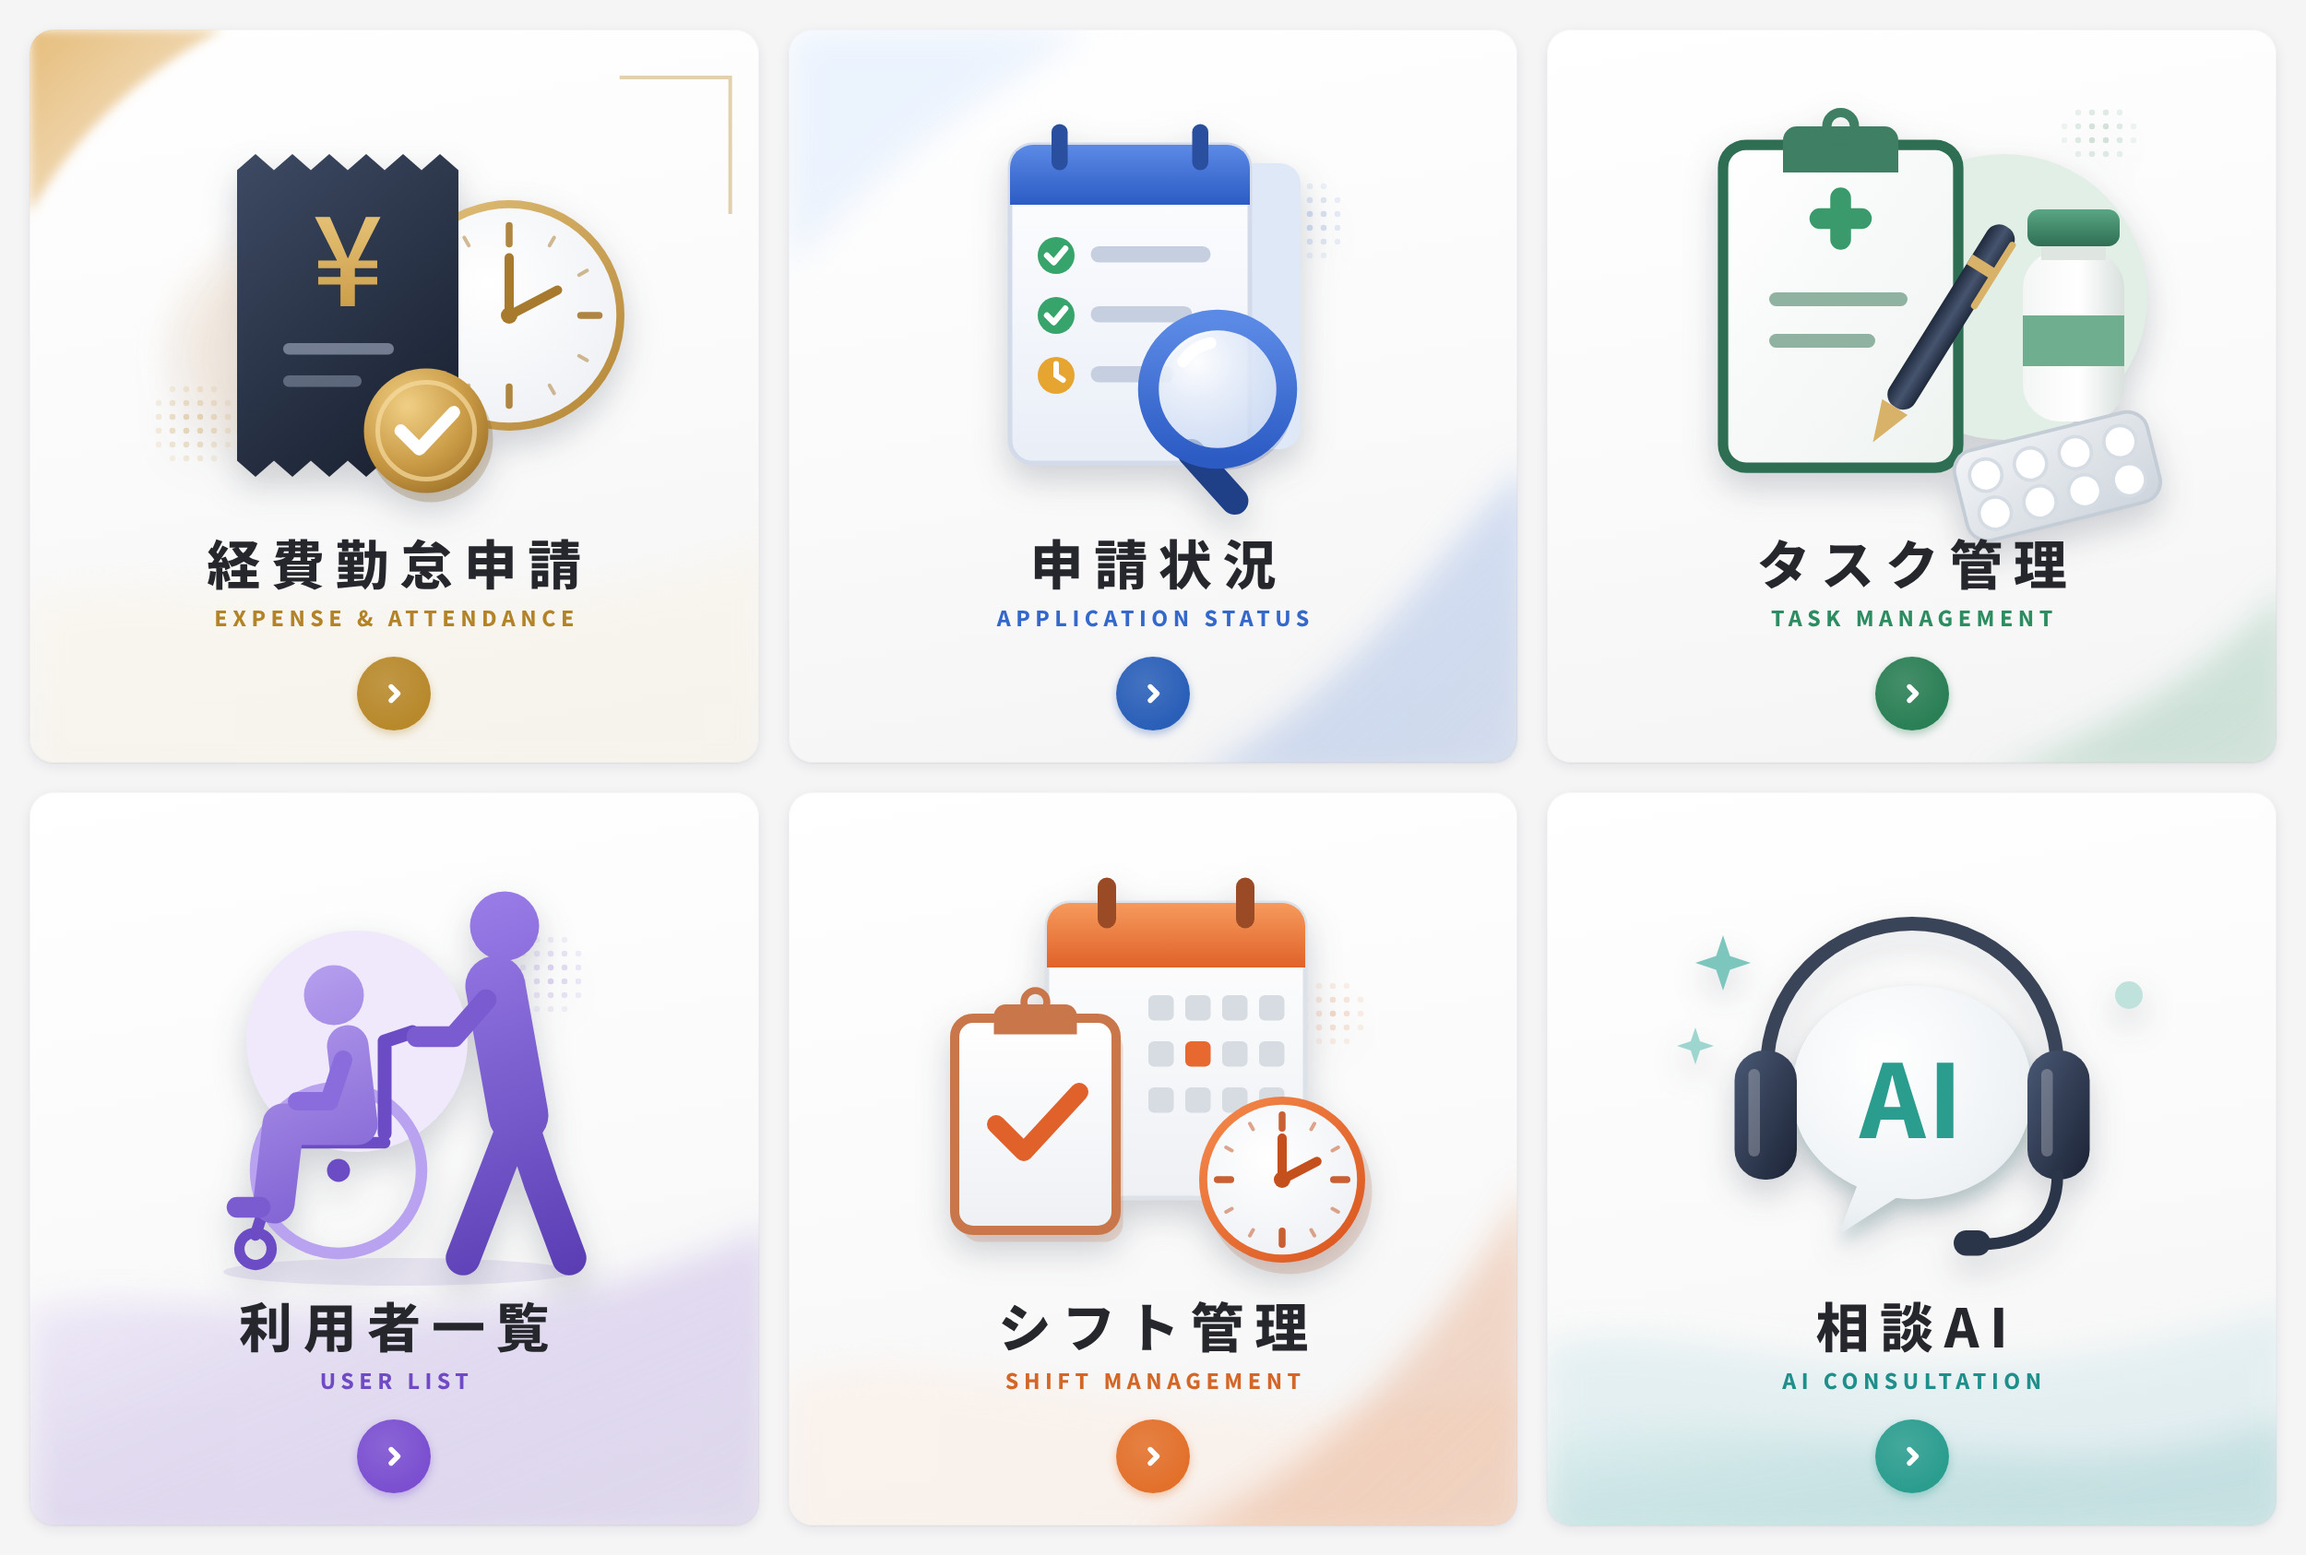
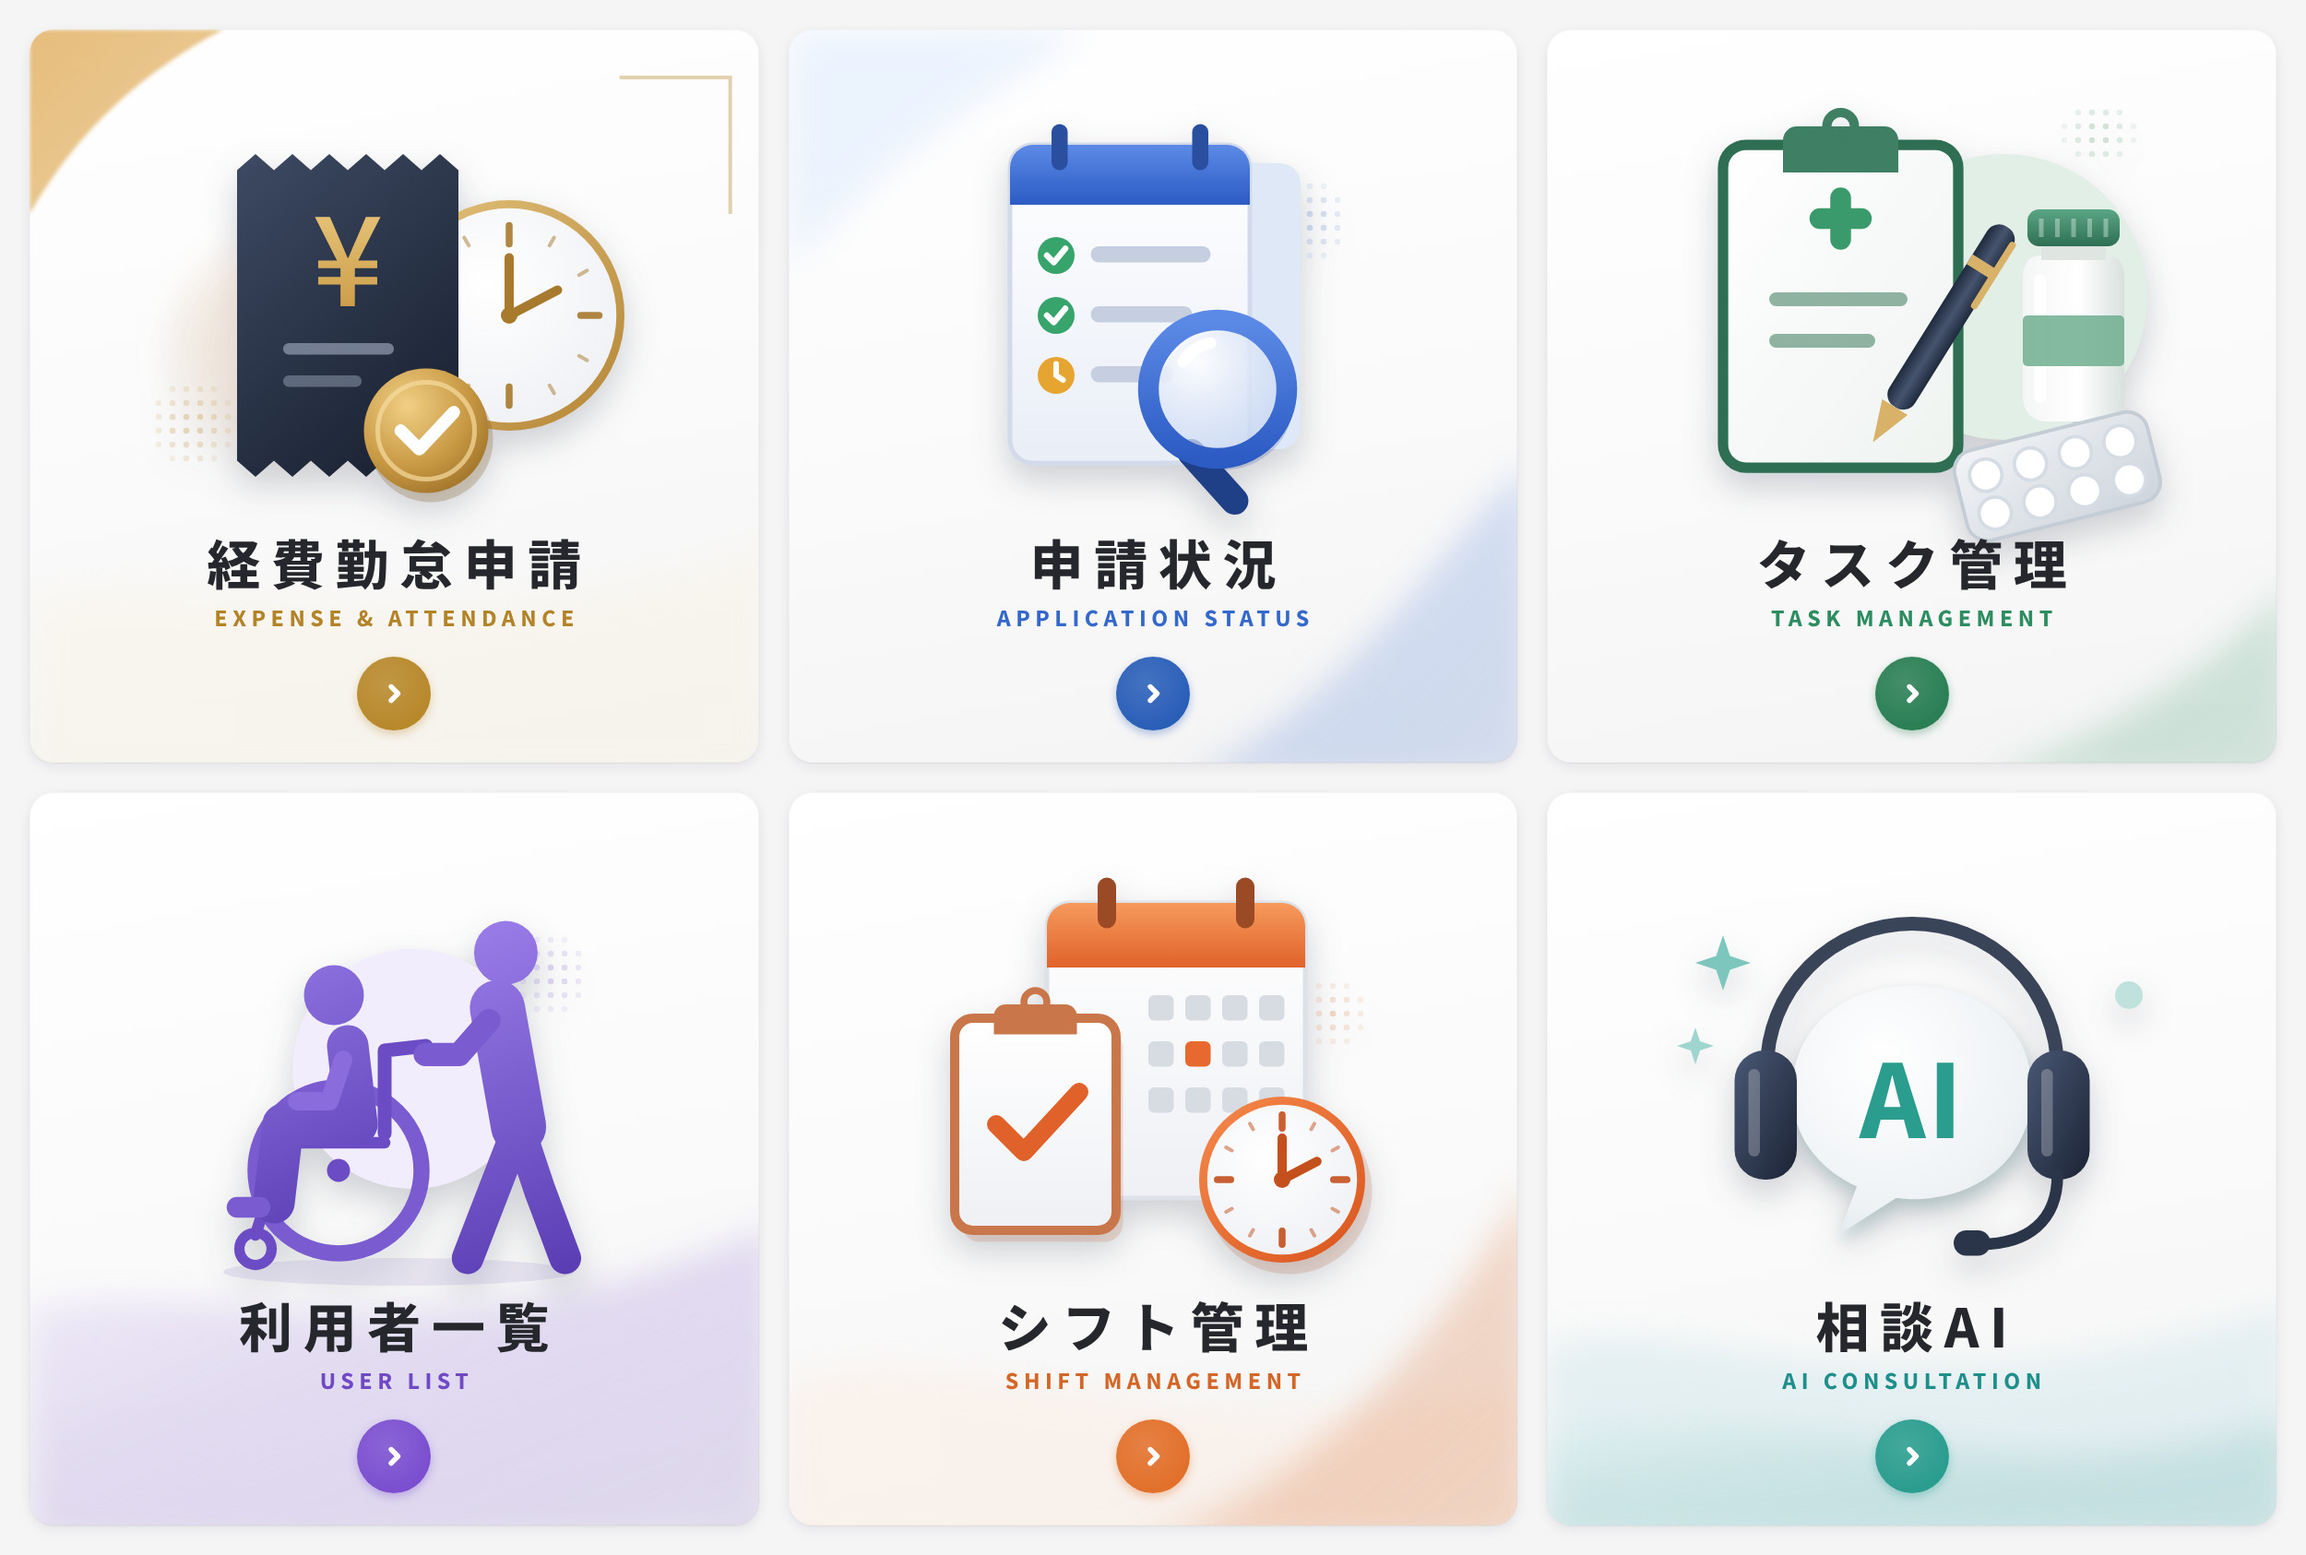
リッチメニュー見直し3周目: 利用者一覧の人物の色と大きさ、薬びんの形、金の角のぼかしを調整
Claude-Session: https://claude.ai/code/session_012GRMCpTzSw5fsUbrsXntL1

Changed region(s): [[0.0936, 0.5552, 0.2496, 0.8327], [0.0, 0.0, 0.0936, 0.1234]]

diff --git a/richmenu/art.js b/richmenu/art.js
@@ -91,22 +91,22 @@ const ART = [
   <rect x="58" y="86" width="60" height="6" rx="3" fill="#8fb3a0"/>
   <rect x="58" y="104" width="46" height="6" rx="3" fill="#8fb3a0"/>
   <g transform="rotate(32 128 110)"><rect x="122" y="48" width="13" height="92" rx="6" fill="url(#a3k)"/><path d="M122 140h13l-6.5 18z" fill="#d9b26a"/><rect x="122" y="66" width="13" height="5" fill="#d9b26a"/><rect x="133" y="52" width="3" height="34" rx="1.5" fill="#d9b26a"/></g>
-  <rect x="168" y="68" width="44" height="74" rx="16" fill="url(#a3w)"/>
-  <rect x="176" y="62" width="28" height="10" fill="#dfe6e2"/><rect x="170" y="50" width="40" height="16" rx="5" fill="url(#a3g)"/>
-  <rect x="168" y="96" width="44" height="22" fill="#6fae8f"/>
+  <path d="M176 70h28q8 0 8 10v52a10 10 0 01-10 10h-24a10 10 0 01-10-10V80q0-10 8-10z" fill="url(#a3w)"/><rect x="173" y="78" width="5" height="56" rx="2.5" fill="#fff" opacity=".85"/>
+  <rect x="176" y="62" width="28" height="10" fill="#dfe6e2"/><rect x="170" y="50" width="40" height="16" rx="5" fill="url(#a3g)"/><path d="M176 54v8M183 54v8M190 54v8M197 54v8M204 54v8" stroke="#fff" stroke-opacity=".35" stroke-width="2"/>
+  <rect x="168" y="96" width="44" height="22" rx="2" fill="#6fae8f" opacity=".85"/>
   <g transform="rotate(-14 182 166)"><rect x="140" y="146" width="86" height="40" rx="9" fill="url(#a3s)" stroke="#c4ccd5" stroke-width="1.5"/>
     ${[0, 1, 2, 3].map(i => `<circle cx="${153 + i * 20}" cy="158" r="7" fill="#fff" stroke="#d6dce3" stroke-width="1.5"/><circle cx="${153 + i * 20}" cy="175" r="7" fill="#fff" stroke="#d6dce3" stroke-width="1.5"/>`).join('')}</g>`,
 
   // 4 利用者一覧: 車いすの人（左向き）と、うしろから押して歩く人（紫）
   `<defs>
     <linearGradient id="a4p" gradientUnits="userSpaceOnUse" x1="140" y1="20" x2="200" y2="180"><stop offset="0" stop-color="#9a7de8"/><stop offset="1" stop-color="#5a3db3"/></linearGradient>
-    <linearGradient id="a4q" gradientUnits="userSpaceOnUse" x1="60" y1="50" x2="110" y2="160"><stop offset="0" stop-color="#b9a2f0"/><stop offset="1" stop-color="#7a5bd0"/></linearGradient>
+    <linearGradient id="a4q" gradientUnits="userSpaceOnUse" x1="60" y1="50" x2="110" y2="160"><stop offset="0" stop-color="#8f72e0"/><stop offset="1" stop-color="#5a3db3"/></linearGradient>
   </defs>
-  <circle cx="104" cy="80" r="48" fill="#efe9fb"/>
+  <circle cx="128" cy="92" r="52" fill="#f2edfc"/>
   ${dots(176, 36, 5, 6, '#b8a8e0')}
   <ellipse cx="122" cy="180" rx="76" ry="6" fill="#5a3db3" opacity=".1"/>
-  <circle cx="96" cy="136" r="36" fill="none" stroke="#b9a2f0" stroke-width="5"/>
-  <path d="M116 120V80l12-4" fill="none" stroke="#6b4cc4" stroke-width="6" stroke-linecap="round" stroke-linejoin="round"/>
+  <circle cx="96" cy="136" r="36" fill="none" stroke="#7a5bd0" stroke-width="7"/>
+  <path d="M116 120V84l18-2" fill="none" stroke="#6b4cc4" stroke-width="6" stroke-linecap="round" stroke-linejoin="round"/>
   <path d="M70 124h46M72 126l-12 38" fill="none" stroke="#6b4cc4" stroke-width="5" stroke-linecap="round"/>
   <circle cx="60" cy="170" r="7" fill="none" stroke="#6b4cc4" stroke-width="4.5"/>
   <circle cx="96" cy="136" r="5" fill="#6b4cc4"/>
@@ -114,10 +114,10 @@ const ART = [
   <path d="M100 82l4 34H72l-4 34" fill="none" stroke="url(#a4q)" stroke-width="18" stroke-linecap="round" stroke-linejoin="round"/>
   <path d="M62 152h-10" stroke="#7a5bd0" stroke-width="9" stroke-linecap="round"/>
   <path d="M98 88l-6 18h-14" fill="none" stroke="#8a6cdc" stroke-width="8" stroke-linecap="round" stroke-linejoin="round"/>
-  <circle cx="168" cy="30" r="15" fill="url(#a4p)"/>
+  <g transform="translate(14 14) scale(.92)"><circle cx="168" cy="30" r="15" fill="url(#a4p)"/>
   <path d="M174 112l-24 62M174 112l10 30 12 32" fill="none" stroke="url(#a4p)" stroke-width="15" stroke-linecap="round" stroke-linejoin="round"/>
   <path d="M164 56l10 56" stroke="url(#a4p)" stroke-width="26" stroke-linecap="round"/>
-  <path d="M160 62l-14 16-16 0" fill="none" stroke="#7a5bd0" stroke-width="9" stroke-linecap="round" stroke-linejoin="round"/>`,
+  <path d="M160 62l-14 16-16 0" fill="none" stroke="#7a5bd0" stroke-width="11" stroke-linecap="round" stroke-linejoin="round"/></g>`,
 
   // 5 シフト管理: オレンジのカレンダー＋チェックのボード＋時計
   `<defs>

diff --git a/richmenu/make.js b/richmenu/make.js
@@ -44,8 +44,8 @@ const cards = TILES.map((t, i) => {
   return `<div class="t" style="left:${x}px;top:${y}px;width:${w}px;height:${h}px;--c:${t.color};--b:${t.badge};--tint:${t.tint}">
     ${uniq(i, `<svg class="bg" viewBox="0 0 ${Math.round(w)} ${Math.round(h)}" preserveAspectRatio="none"><defs>
       <linearGradient id="g1" x1="0" y1="0" x2="1" y2="1"><stop offset="0" stop-color="${t.tint}"/><stop offset="1" stop-color="${t.color}" stop-opacity=".3"/></linearGradient>
-      <linearGradient id="gc" x1="0" y1="0" x2="1" y2="1"><stop offset="0" stop-color="#e6bd7c"/><stop offset=".6" stop-color="#e6bd7c" stop-opacity=".55"/><stop offset="1" stop-color="#e6bd7c" stop-opacity="0"/></linearGradient>
-      <filter id="s" x="-20%" y="-20%" width="140%" height="140%"><feGaussianBlur stdDeviation="18"/></filter><filter id="sb"><feGaussianBlur stdDeviation="6"/></filter></defs>
+      <linearGradient id="gc" x1="0" y1="0" x2="1" y2="1"><stop offset="0" stop-color="#e6bd7c"/><stop offset=".75" stop-color="#e6bd7c" stop-opacity=".8"/><stop offset="1" stop-color="#e6bd7c" stop-opacity="0"/></linearGradient>
+      <filter id="s" x="-20%" y="-20%" width="140%" height="140%"><feGaussianBlur stdDeviation="18"/></filter><filter id="sb"><feGaussianBlur stdDeviation="2"/></filter></defs>
       ${DECO[i](t)}</svg>`)}
     <svg class="art" viewBox="0 0 240 200">${ART[i]}</svg>
     <b>${t.label}</b><small>${t.en}</small>
